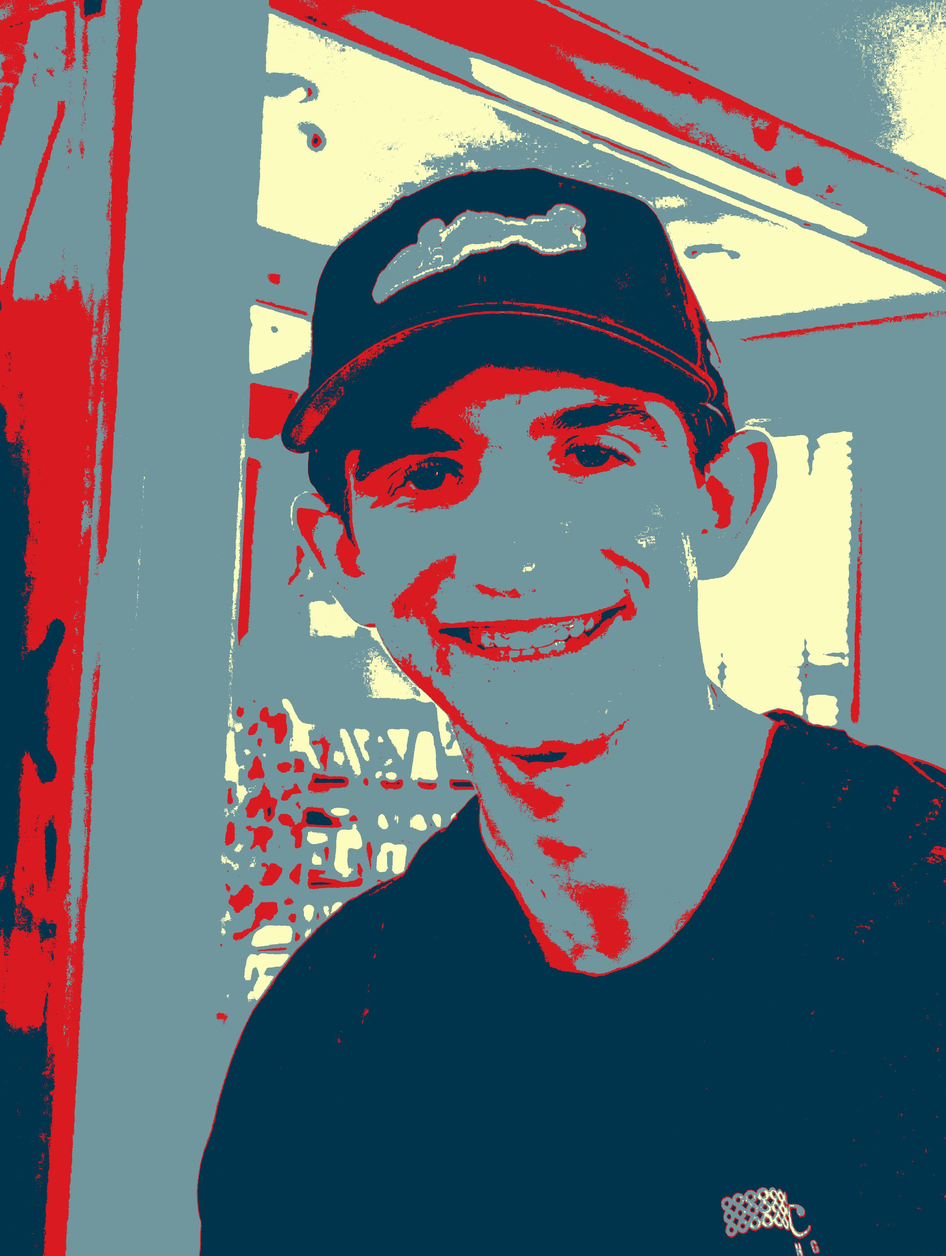
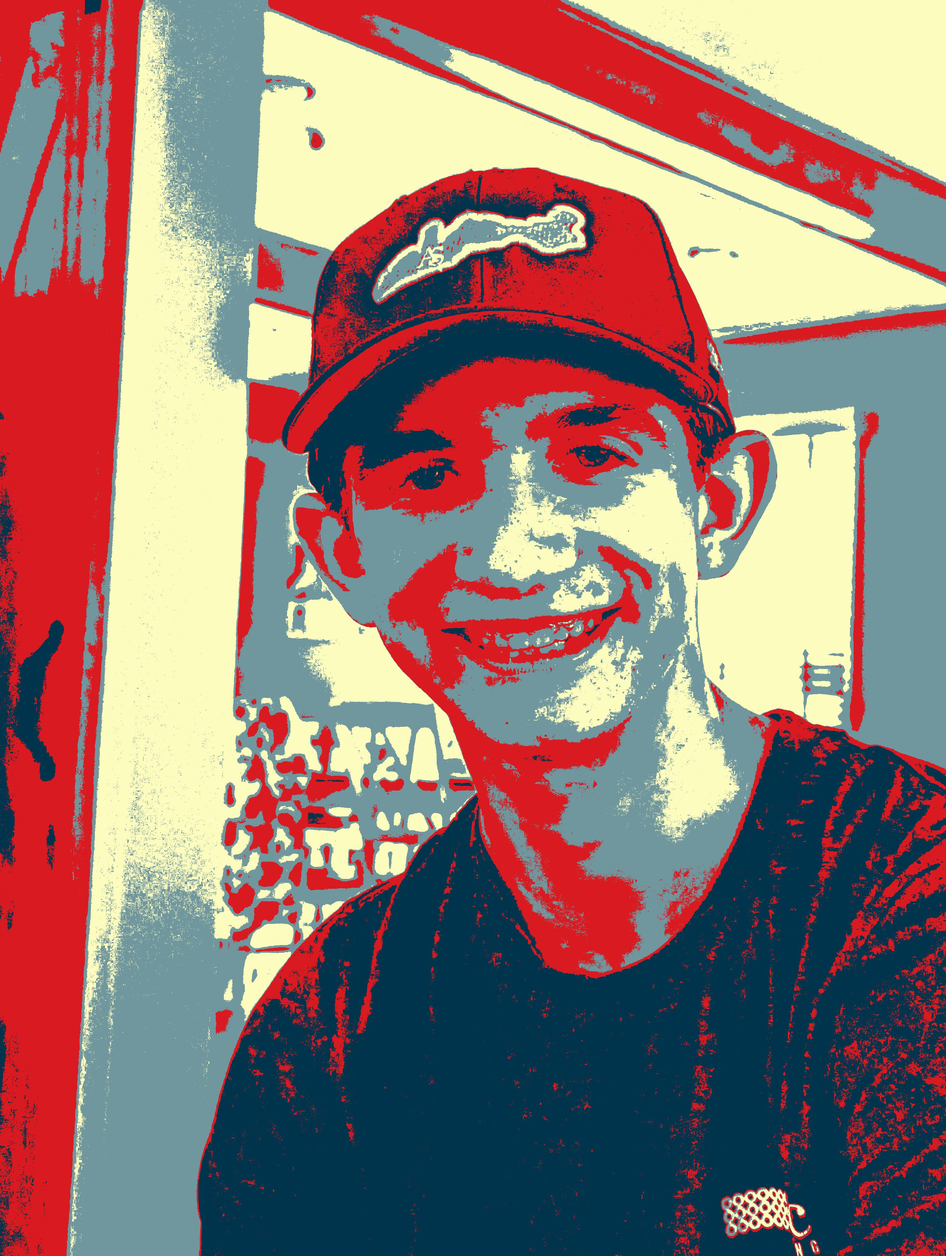
finished

diff --git a/ColorLabs17/SheparFaireyLab.java b/ColorLabs17/SheparFaireyLab.java
@@ -23,8 +23,7 @@ public class SheparFaireyLab
     Picture pic = new Picture("images/seflie.jpg");
     Pixel[] pixels = pic.getPixels();
     
-    // STEP 1 — Convert picture to grayscale (using 1 for-each loop)
-        // // ----------------------------------------------------
+   
         for (Pixel p : pixels) {
             int gray = (p.getRed() + p.getGreen() + p.getBlue()) / 3;
             p.setRed(gray);
@@ -32,9 +31,7 @@ public class SheparFaireyLab
             p.setBlue(gray);
         }
 
-        // ----------------------------------------------------
-        // STEP 2 — Find min and max grayscale values (for thresholds)
-        // ----------------------------------------------------
+       
         int min = 255;
         int max = 0;
 
@@ -48,42 +45,100 @@ public class SheparFaireyLab
         double interval = (max - min + 1) / 5.0;
 
         // ----------------------------------------------------
-        // Shepard Fairey "Balanced" 4 Color Palette
         // ----------------------------------------------------
-        Color mBlue = new Color(220, 20, 60);
-        Color skyBlue = new Color(255, 130, 0);
-        Color coral = new Color(0, 200, 255);
-        Color mintGreen = new Color(150, 255, 0);
-        Color warmSand = new Color(75, 0, 130);
+        Color darkBlue = new Color(0, 51, 76);
+        Color red = new Color(217, 26, 33);
+        Color lightBlue = new Color(112, 150, 158);
+        Color offWhite = new Color(222, 222, 161);
+        Color offWhite2 = new Color(252, 252, 191);
 
         // ----------------------------------------------------
-        // STEP 3 — Assign each pixel a color based on grayscale range
         // ----------------------------------------------------
         for (Pixel p : pixels) {
             int gray = p.getRed();
 
             if (gray < min + interval) {
-                p.setColor(mBlue);
+                p.setColor(darkBlue);
             }
             else if (gray < min + 2 * interval) {
-                p.setColor(skyBlue);
+                p.setColor(red);
             }
             else if (gray < min + 3 * interval) {
-                p.setColor(coral);
+                p.setColor(lightBlue);
             }
-            else if (gray < min + 4 * interval) {
-                p.setColor(mintGreen);
+            else if (gray < min + 3.5 * interval) {
+                p.setColor(offWhite);
             }
+            
             else {
-                p.setColor(warmSand);
+                p.setColor(offWhite2);
             }
         }
 
         // ----------------------------------------------------
-        // STEP 4 — Display final Balanced Shepard-Fairey image
         // ----------------------------------------------------
         pic.explore();
-        pic.write("images/selfieCustom4.jpg");
+        pic.write("images/selfieBalanced+.jpg");
+        
+        
+        
+        // Picture pic = new Picture("images/seflie.jpg");
+        // Pixel[] pixels = pic.getPixels();
+    
+   
+        // for (Pixel p : pixels) {
+            // int gray = (p.getRed() + p.getGreen() + p.getBlue()) / 3;
+            // p.setRed(gray);
+            // p.setGreen(gray);
+            // p.setBlue(gray);
+        // }
+
+       
+        // int min = 255;
+        // int max = 0;
+
+        // for (Pixel p : pixels) {
+            // int gray = p.getRed();  // red = green = blue = gray
+            // if (gray < min) min = gray;
+            // if (gray > max) max = gray;
+        // }
+
+        // // Balanced method assigns equal ranges
+        // double interval = (max - min + 1) / 5.0;
+
+        // // ----------------------------------------------------
+        // // ----------------------------------------------------
+        // Color darkBlue = new Color(0, 51, 76);
+        // Color red = new Color(217, 26, 33);
+        // Color lightBlue = new Color(112, 150, 158);
+        // Color offWhite = new Color(252, 252, 191);
+
+        // // ----------------------------------------------------
+        // // ----------------------------------------------------
+        // for (Pixel p : pixels) {
+            // int gray = p.getRed();
+
+            // if (gray < min + interval) {
+                // p.setColor(darkBlue);
+            // }
+            // else if (gray < min + 2 * interval) {
+                // p.setColor(darkBlue);
+            // }
+            // else if (gray < min + 3 * interval) {
+                // p.setColor(red);
+            // }
+            // else if (gray < min + 4 * interval) {
+                // p.setColor(lightBlue);
+            // }
+            // else {
+                // p.setColor(offWhite);
+            // }
+        // }
+
+        // // ----------------------------------------------------
+        // // ----------------------------------------------------
+        // pic.explore();
+        // pic.write("images/selfieBalanced+.jpg");
     
       
     
@@ -113,8 +168,7 @@ public class SheparFaireyLab
     
     
     
-    // // STEP 1 — Convert image to grayscale
-        // // ----------------------------------------------------
+   
         // for (Pixel p : pixels) {
             // int gray = (p.getRed() + p.getGreen() + p.getBlue()) / 3;
             // p.setRed(gray);
@@ -123,23 +177,17 @@ public class SheparFaireyLab
         // }
         // pic.explore();
 
-        // // ----------------------------------------------------
-        // // STEP 2 — Make a copy of the pixel array to sort
-        // // ----------------------------------------------------
+       
         // Pixel[] sorted = Arrays.copyOf(pixels, pixels.length);
 
-        // // ----------------------------------------------------
-        // // STEP 3 — Sort pixels by grayscale (ascending)
-        // // ----------------------------------------------------
+       
         // Arrays.sort(sorted, new Comparator<Pixel>() {
             // public int compare(Pixel p1, Pixel p2) {
                 // return p1.getRed() - p2.getRed(); // red = gray now
             // }
         // });
 
-        // // ----------------------------------------------------
-        // // Fairey 4-color palette
-        // // ----------------------------------------------------
+
         // Color darkBlue = new Color(0, 51, 76);
         // Color red = new Color(217, 26, 33);
         // Color lightBlue = new Color(112, 150, 158);
@@ -169,10 +217,10 @@ public class SheparFaireyLab
         // }
 
         // // ----------------------------------------------------
-        // // STEP 5 — Display the final balanced picture
+       
         // // ----------------------------------------------------
         // pic.explore();
-        // pic.write("images/selfieBalanced.jpg");
+        // pic.write("images/selfieIntense.jpg");
         
     
     
